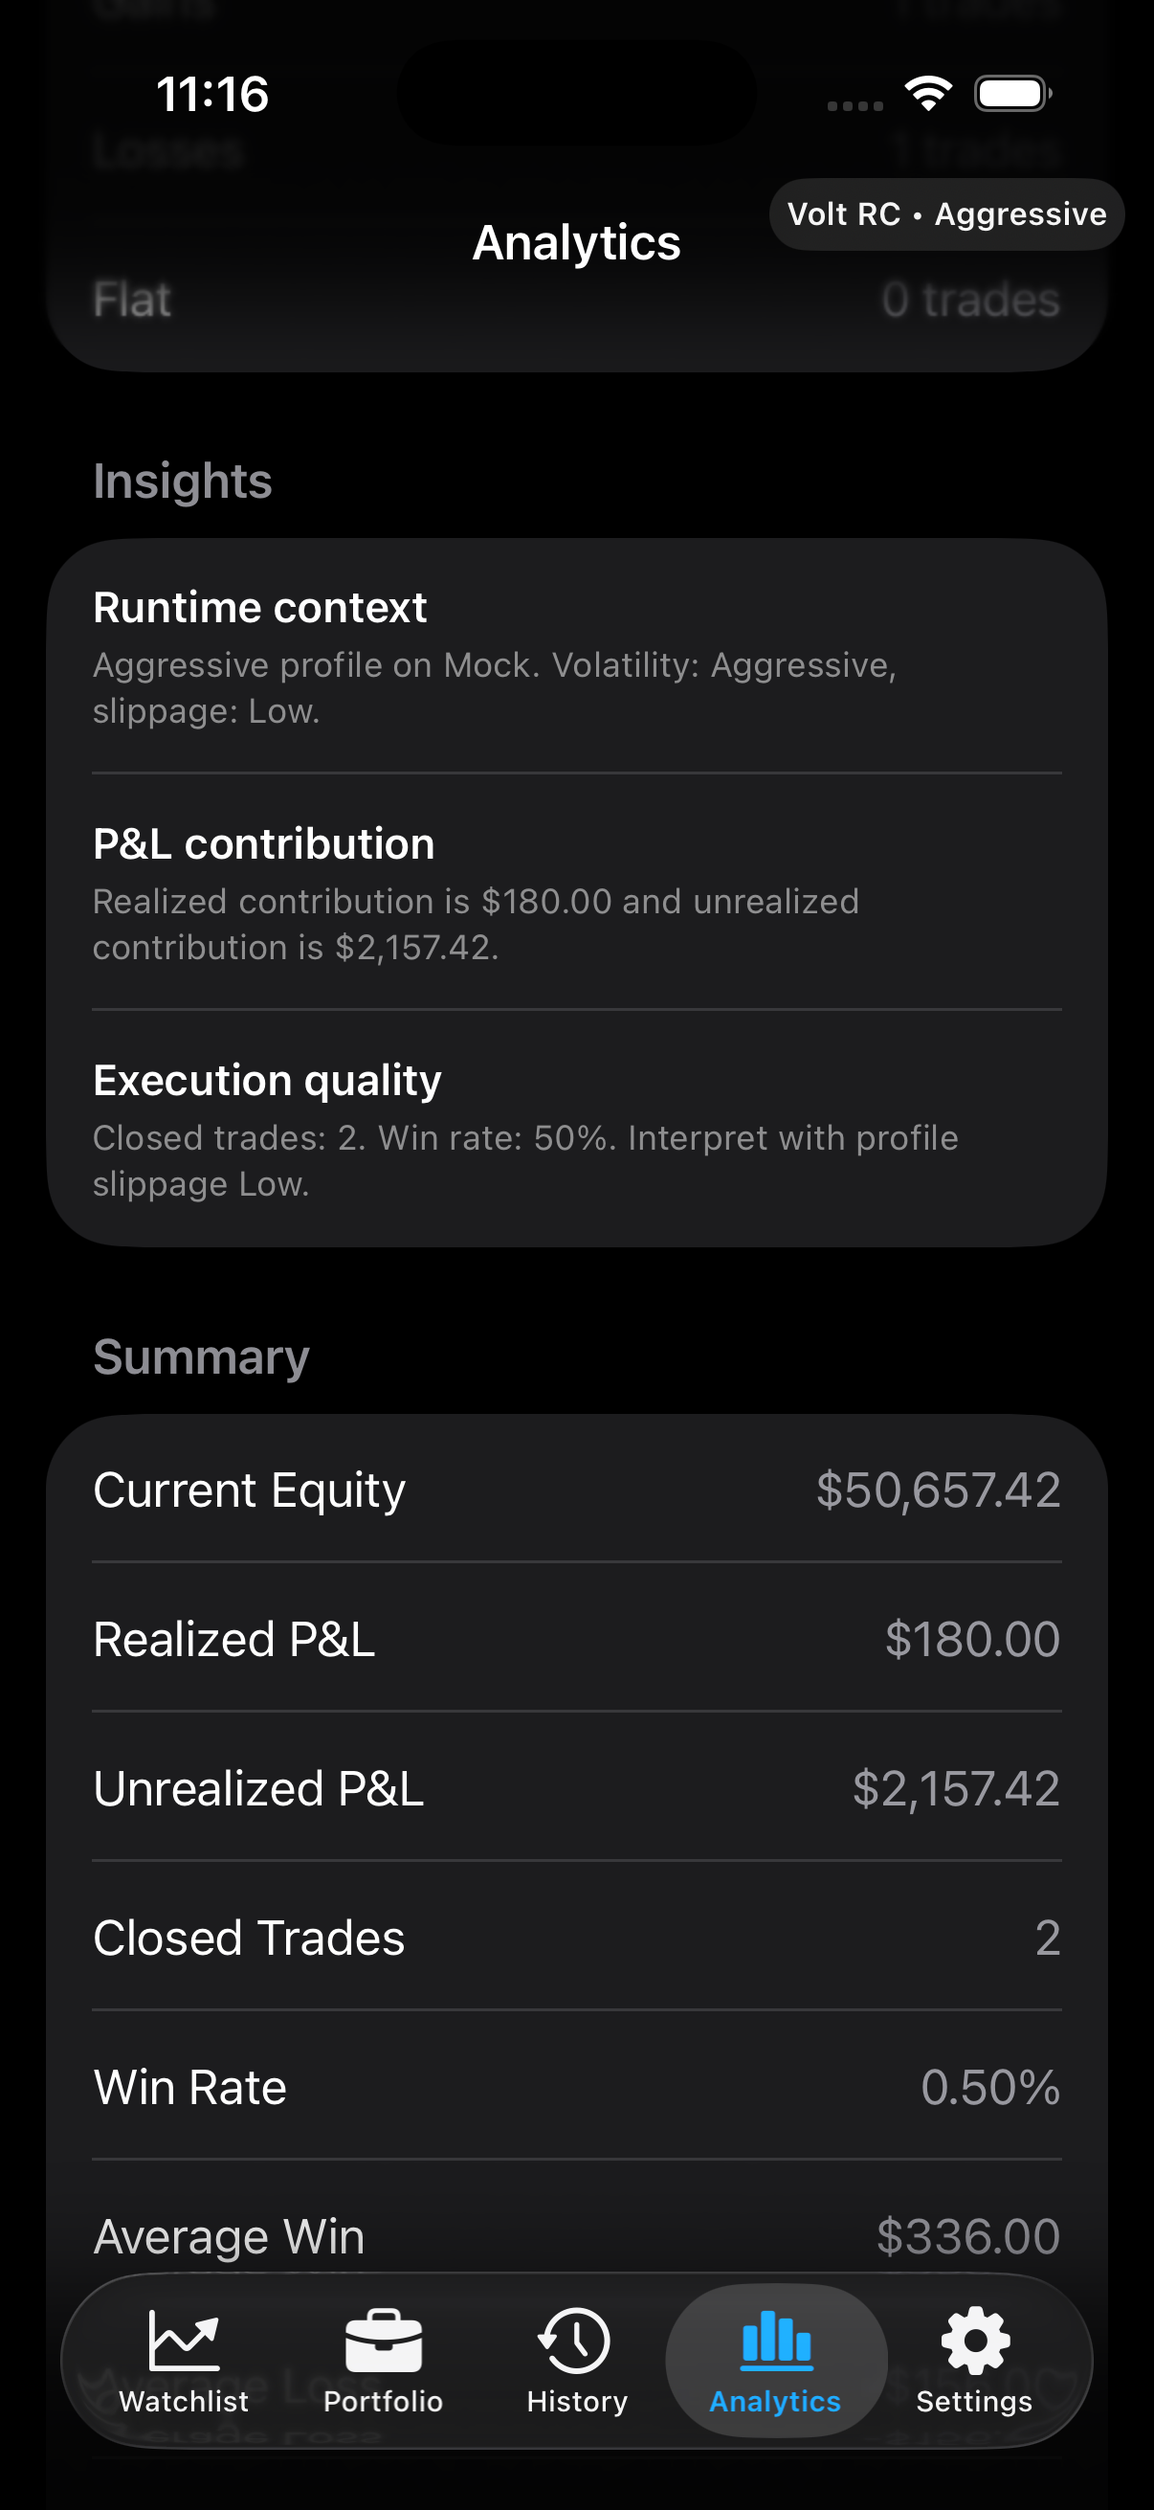
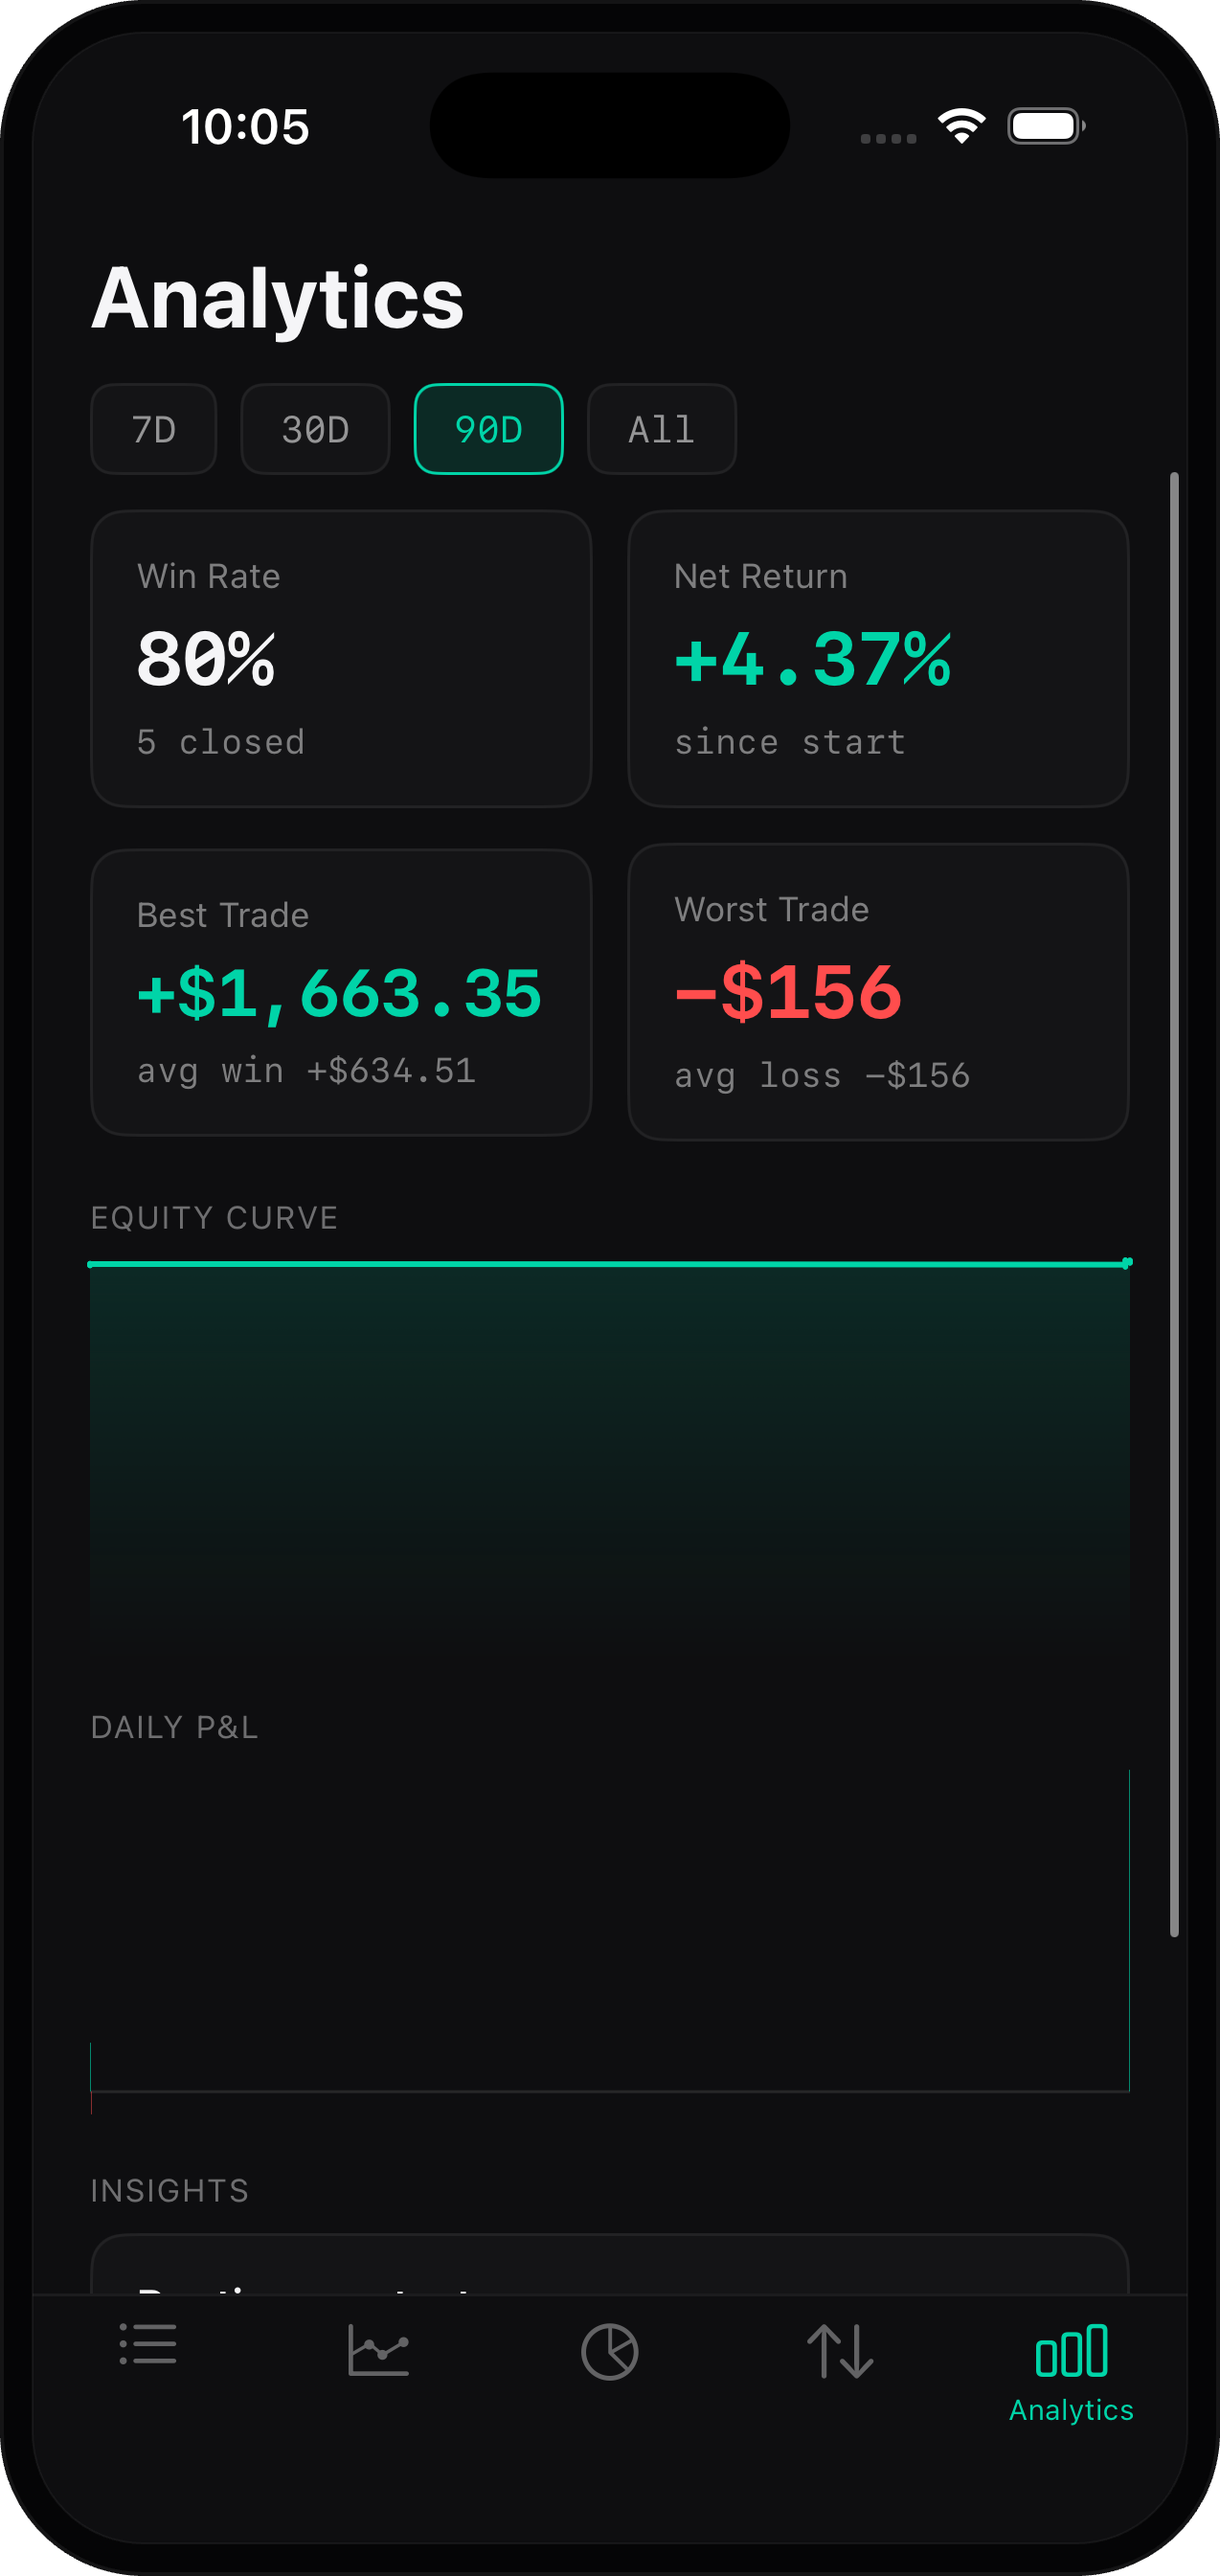
README: brand-recolor badges, video preview, refreshed screenshot set
Surgical README media update (three blocks only; all other sections
untouched):

- Badges recolored to Volt brand (#0E0E10 bg, #00D4A8 teal accent) with
  Apple/Swift logos; same labels and order
- Preview: swap the empty gif placeholder for an HTML5 <video> embed
  (user-attachments URL) with docs/media/volt_preview_poster.png poster and
  a clickable-poster fallback
- Screenshots: 4 -> 5 distinct screens (add Trade + History, drop the
  duplicate Portfolio shot) at width 220, plus a one-line caption

Assets: add docs/media/{trade,history}.png and volt_preview_poster.png,
refresh watchlist/portfolio/analytics with the new dark UI, remove the
now-unreferenced portfolio-2.png. Previous README saved to README.old.md.
No Swift source touched.

diff --git a/README.old.md b/README.old.md
@@ -1,16 +1,15 @@
-<p align="center">
-  <img src="./docs/banner.png" alt="Volt — Open-source SwiftUI crypto trading simulator" width="100%" />
-</p>
-
 <div align="center">
+  <img src="./Volt/Assets.xcassets/AppIcon.appiconset/Volt_Rev.png" alt="Volt app icon" width="140" />
+
+  # Volt RC — iOS Crypto Trading Simulator
 
   **A premium-feel, on-device crypto trading simulator for demos, architecture reviews, and engineering workflows.**
 
-  ![Platform](https://img.shields.io/badge/Platform-iOS-0E0E10?style=flat-square&logo=apple&logoColor=00D4A8)
-  ![Language](https://img.shields.io/badge/Language-Swift-0E0E10?style=flat-square&logo=swift&logoColor=00D4A8)
-  ![UI](https://img.shields.io/badge/UI-SwiftUI-0E0E10?style=flat-square&logo=swift&logoColor=00D4A8)
-  ![Charts](https://img.shields.io/badge/Charts-Swift%20Charts-0E0E10?style=flat-square&logoColor=00D4A8)
-  ![License](https://img.shields.io/badge/License-Apache--2.0-0E0E10?style=flat-square&logoColor=00D4A8)
+  ![Platform](https://img.shields.io/badge/Platform-iOS-0A84FF?style=flat-square)
+  ![Language](https://img.shields.io/badge/Language-Swift-F05138?style=flat-square)
+  ![UI](https://img.shields.io/badge/UI-SwiftUI-0A84FF?style=flat-square)
+  ![Charts](https://img.shields.io/badge/Charts-Swift%20Charts-8E8E93?style=flat-square)
+  ![License](https://img.shields.io/badge/License-Apache--2.0-111111?style=flat-square)
 </div>
 
 ---
@@ -18,18 +17,7 @@
 ## Preview
 
 <p align="center">
-  <video
-    src="https://github.com/user-attachments/assets/f02fcacc-501f-4527-8c39-41caee57e0fc"
-    poster="./docs/media/volt_preview_poster.png"
-    width="490"
-    autoplay
-    loop
-    muted
-    playsinline>
-    <a href="https://github.com/user-attachments/assets/f02fcacc-501f-4527-8c39-41caee57e0fc">
-      <img src="./docs/media/volt_preview_poster.png" width="490" alt="▶ Watch the Volt walkthrough">
-    </a>
-  </video>
+  <img src="./docs/media/volt_preview.gif" alt="Volt app demo" width="490" />
 </p>
 
 ---
@@ -54,25 +42,9 @@ This makes it great for:
 - **Asset detail + charts** — Tap any asset to see a quote header and a 1-minute candlestick chart (Swift Charts). Falls back to cached candles gracefully if the network is unavailable.
 - **Trade ticket** — Submit buy or sell market orders with estimated fill prices (including slippage), risk warnings, and a post-fill recap.
 - **Portfolio** — See your open positions with real-time unrealized P&L, all driven from the same shared quote stream.
-- **History** — Review filled orders and activity, filter by symbol or event type, and export to CSV. Accessible from the Portfolio toolbar.
+- **History** — Review filled orders and activity, filter by symbol or event type, and export to CSV.
 - **Analytics** — Equity curve, daily P&L buckets, win rate, profit factor, and more.
-- **Settings** — Switch between runtime profiles (Conservative / Balanced / Aggressive), adjust slippage and volatility, enable deterministic demo scenarios, and more. Accessible via the gear icon.
-
-### Navigation
-
-A custom 5-tab bar anchors the app: **Watchlist**, **Chart**, **Portfolio**, **Trade**, **Analytics**. Settings opens as a sheet from the gear icon, and History is reached from the Portfolio screen's toolbar.
-
----
-
-## Design system
-
-Volt ships with a dark-only design system ("Volt Dark") so every screen shares one visual language instead of ad-hoc styling per view:
-
-- **Design tokens** — named colors in the asset catalog (`voltBackground`, `voltSurface`, `voltSurfaceDeep`, `voltAccent`, `voltDanger`, `voltTextPrimary`, plus per-coin brand accents), a spacing/radius grid, and a typography scale (SF Pro for labels, SF Mono for all numeric values).
-- **Shared components** — `CoinRow`, `ChangePill`, `SidePill`, `PrimaryButton`, `SparklineView`, `LiveDot`, `SectionCard`, `FilterPill`, `CoinBadge`, and skeleton-shimmer loading placeholders (no spinners anywhere in the app).
-- **Source of truth** — tokens and components live in `Volt/Features/DesignSystem/`; no screen should reference a raw hex value or a system semantic color directly.
-
-See `Volt/Features/DesignSystem/Colors.swift`, `Spacing.swift`, `Typography.swift`, and `Components.swift` for the full token/component set.
+- **Settings** — Switch between runtime profiles (Conservative / Balanced / Aggressive), adjust slippage and volatility, enable deterministic demo scenarios, and more.
 
 ---
 
@@ -90,15 +62,10 @@ See `Volt/Features/DesignSystem/Colors.swift`, `Spacing.swift`, `Typography.swif
 ## Screenshots
 
 <p align="center">
-  <img src="./docs/media/watchlist.png" alt="Watchlist screen" width="220" />
-  <img src="./docs/media/trade.png" alt="Trade screen" width="220" />
-  <img src="./docs/media/portfolio.png" alt="Portfolio screen" width="220" />
-  <img src="./docs/media/history.png" alt="History screen" width="220" />
-  <img src="./docs/media/analytics.png" alt="Analytics screen" width="220" />
-</p>
-
-<p align="center">
-  <sub>Updated dark UI across every screen — new inline sparklines on Watchlist, a redesigned Trade ticket with slippage presets and fill receipt, and dedicated History and Analytics views.</sub>
+  <img src="./docs/media/watchlist.png" alt="Watchlist screen" width="260" />
+  <img src="./docs/media/portfolio.png" alt="Portfolio screen" width="260" />
+  <img src="./docs/media/analytics.png" alt="Analytics screen" width="260" />
+  <img src="./docs/media/portfolio-2.png" alt="Portfolio detail screen" width="260" />
 </p>
 
 ---
@@ -305,7 +272,6 @@ A few things to keep in mind:
 | Analytics | `Volt/Data/Repositories/DefaultPortfolioAnalyticsService.swift` |
 | Runtime profiles | `Volt/Domain/Models/RuntimeProfile.swift` |
 | Demo scenarios | `Volt/Domain/Models/DemoScenario.swift`, `Volt/Data/Repositories/DefaultDemoScenarioBootstrapService.swift` |
-| Design tokens + shared components | `Volt/Features/DesignSystem/` |
 
 ---
 
